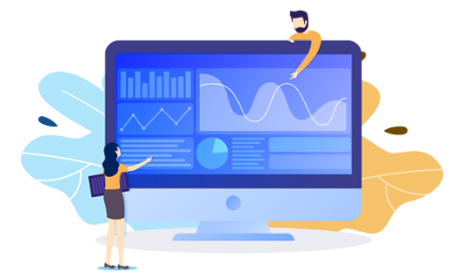
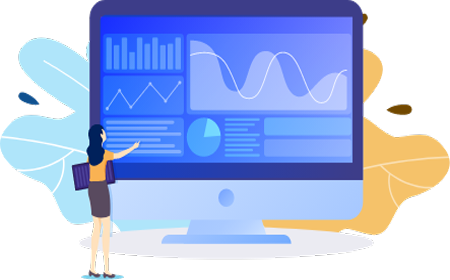
Product pages

diff --git a/public/css/navbar.css b/public/css/navbar.css
@@ -57,6 +57,10 @@
     color: #00AEEF;
 }
 
+.navigation-bar .inner-wrapper .nav-links .navbar-nav .nav-item .nav-link:focus {
+    box-shadow: none;
+}
+
 .navigation-bar .inner-wrapper .nav-links .menu-trigger {
     cursor: pointer;
     display: block;

diff --git a/resources/views/frontend/product_whatsapp_widget.blade.php b/resources/views/frontend/product_whatsapp_widget.blade.php
@@ -1,0 +1,150 @@
+@extends('frontend.layouts.app')
+
+@section('title', app_name() . ' | ' . __('navs.general.home'))
+
+@section('content')
+
+<link rel="stylesheet" href="{{url('css/product.css')}}">
+    
+@include('frontend.includes.home_nav')
+
+<div class="products-body">
+        <div class="container">
+            <div class="inner-container">
+
+                <section class="hero-section">
+                    <div class="container">
+                        <div class="inner-wrapper">
+                            <div class="content-block">
+                                <h2 class="title"><span>WhatsApp</span><br>widget<br> for websites</h2>
+                                <p class="content">Integrate the most popular communication channel into your website and improve your customer service quality and sales conversion.</p>
+                                <ul>
+                                    <li><i class="bi bi-check-circle-fill"></i> Customisable ready to use widget</li>
+                                    <li><i class="bi bi-check-circle-fill"></i> Inquiry Management System - IMS</li>
+                                </ul>
+                                <a href="{{url('login')}}" class="cta-plain-btn">
+                                    <span class="text">Get Started</span>
+                                    <i class="bi bi-arrow-right-short"></i>
+                                </a>
+                            </div>
+                            <div class="image-block">
+                                <img src="{{url('images/products/Group 549.png')}}" alt="">
+                            </div>
+                        </div>
+                    </div>
+                </section>
+
+                <section class="whatsapp-widget">
+                    <div class="container">
+                        <div class="inner-wrapper">
+                            <div class="image-block">
+                                <div class="splide" id="whatsappFeatureSlider">
+                                    <div class="splide__track">
+                                            <ul class="splide__list">
+                                                <li class="splide__slide">
+                                                    <img src="{{url('images/products/Group 550.png')}}" alt="">
+                                                </li>
+                                                <li class="splide__slide">
+                                                    <img src="{{url('images/products/Group 552.png')}}" alt="">
+                                                </li>
+                                            </ul>
+                                    </div>
+                                </div>
+                            </div>
+                            <div class="content-block">
+                                <h2 class="title">WhatsApp Chat Features</h2>
+                                <ul>
+                                    <li><i class="bi bi-check-circle-fill"></i> Customisable chat box
+                                    </li>
+                                    <li><i class="bi bi-check-circle-fill"></i> Choose prefered position on website</li>
+                                    <li><i class="bi bi-check-circle-fill"></i> Choose bubble icon and add text</li>
+                                    <li><i class="bi bi-check-circle-fill"></i> Your own welcome message</li>
+                                </ul>
+                                <a href="" class="cta-outline-btn">
+                                    <span class="text">Get Started</span>
+                                    <i class="bi bi-arrow-right-short"></i>
+                                </a>
+                            </div>
+                        </div>
+                    </div>
+                </section>
+
+                <section class="more-about-widget">
+                    <div class="header">
+                        <h3 class="title">Manage your leads efficiently for better productivity</h3>
+                    </div>
+                    <div class="feature-block-section">
+                        <div class="curves">
+                            <img src="{{url('images/products/Path 6503.svg')}}" alt="" class="top-curve">
+                            <img src="{{url('images/products/Path 6507.svg')}}" alt="" class="bottom-curve">
+                        </div>
+                        <div class="feature-block block-1">
+                            <div class="content-block">
+                                <div class="subtitle-block">
+                                    <img src="{{url('images/products/Polygon 1.png')}}" alt="">
+                                    <span class="text">Convert visitors into customers</span>
+                                </div>
+                                <h2 class="title">Inquiry Management System</h2>
+                                <div class="content">
+                                    <ul>
+                                        <li><i class="bi bi-check-circle-fill"></i> Admin dashboard with user privileges management</li>
+                                        <li><i class="bi bi-check-circle-fill"></i> Assign the inquiry to relevant department</li>
+                                        <li><i class="bi bi-check-circle-fill"></i> Record of the full status of the inquiry with comments</li>
+                                        <li><i class="bi bi-check-circle-fill"></i> Analytics of the inquiry management process with reports</li>
+                                    </ul>
+                                </div>
+                            </div>
+                            <div class="image-block">
+                                <img src="{{url('images/landing_page/products/whatsapp_widget/ims.png')}}" alt="">
+                            </div>
+                        </div>
+                        <div class="feature-block block-2">
+                            <div class="content-block">
+                                <div class="curves">
+                                    <img src="{{url('images/products/Path 6503.svg')}}" alt="" class="top-curve">
+                                    <img src="{{url('images/products/Path 6507.svg')}}" alt="" class="bottom-curve">
+                                </div>
+                                <div class="subtitle-block">
+                                    <img src="{{url('images/products/Polygon 1.png')}}" alt="">
+                                    <span class="text">Never miss a valuable lead</span>
+                                </div>
+                                <h2 class="title">The tool that marketing team Loves</h2>
+                                <p class="content">It makes everybody's life easier with insights of the leads and funnel management</p>
+                            </div>
+                            <div class="image-block">
+                                <img src="{{url('images/products/Group 551.png')}}" alt="">
+                            </div>
+                        </div>
+                        <div class="feature-block block-3">
+                            <!-- <div class="content-block">
+                                <div class="subtitle-block">
+                                    <img src="{{url('images/products/Polygon 1.png')}}" alt="">
+                                    <span class="text">Sub topic have to include here</span>
+                                </div>
+                                <h2 class="title">Team inbox for <br> WhatsApp</h2>
+                                <p class="content">
+                                    Lorem Ipsum is simply dummy text of the printing and typesetting industry. Lorem
+                                    Ipsum has been
+                                    the industry's dummy text ever since the 1500s, when an unknown printer took a
+                                    galley of type
+                                    and scrambled it to make a type specimen book. It has survived not only five
+                                    centuries, but also
+                                    the leap
+                                </p>
+                            </div>
+                            <div class="image-block">
+                                <img src="{{url('images/products/2225.png')}}" alt="">
+                            </div> -->
+                        </div>
+                    </div>
+                </section>
+
+            </div>
+        </div>
+    </div>
+
+    @include('frontend.includes.footer')
+
+    
+@endsection
+

diff --git a/resources/views/frontend/product_all_in_one_chat.blade.php b/resources/views/frontend/product_all_in_one_chat.blade.php
@@ -16,7 +16,7 @@
                     <div class="container">
                         <div class="inner-wrapper">
                             <div class="content-block">
-                                <h2 class="title">WhatsApp<br>widget<br> for websites</h2>
+                                <h2 class="title"><span>All-in-One</span><br>Chat<br> for websites</h2>
                                 <p class="content">Integrate the most popular communication channel into your website and improve your customer service quality and sales conversion.</p>
                                 <ul>
                                     <li><i class="bi bi-check-circle-fill"></i> Customisable ready to use widget</li>
@@ -28,7 +28,7 @@
                                 </a>
                             </div>
                             <div class="image-block">
-                                <img src="{{url('images/products/Group 549.png')}}" alt="">
+                                <img src="{{url('images/landing_page/products/all_in_one_chat/hero_image.png')}}" alt="">
                             </div>
                         </div>
                     </div>
@@ -42,10 +42,10 @@
                                     <div class="splide__track">
                                             <ul class="splide__list">
                                                 <li class="splide__slide">
-                                                    <img src="{{url('images/products/Group 550.png')}}" alt="">
+                                                    <img src="{{url('images/landing_page/products/all_in_one_chat/slide_1.png')}}" alt="">
                                                 </li>
                                                 <li class="splide__slide">
-                                                    <img src="{{url('images/products/Group 552.png')}}" alt="">
+                                                    <img src="{{url('images/landing_page/products/all_in_one_chat/slide_1.png')}}" alt="">
                                                 </li>
                                             </ul>
                                     </div>
@@ -95,7 +95,7 @@
                                 </div>
                             </div>
                             <div class="image-block">
-                                <img src="{{url('images/products/ims_analytics.png')}}" alt="">
+                                <img src="{{url('images/landing_page/products/all_in_one_chat/ims.png')}}" alt="">
                             </div>
                         </div>
                         <div class="feature-block block-2">

diff --git a/resources/views/frontend/includes/home_nav.blade.php b/resources/views/frontend/includes/home_nav.blade.php
@@ -3,7 +3,7 @@
             <div class="inner-wrapper">
                 <div class="brand">
                     <a href="{{url('/')}}">
-                        <img src="{{url('images/logo/Tallentor-Logo-(PNG).png')}}" alt="brand-logo">
+                        <img src="{{url('images/logo/tallentor-logo.png')}}" alt="brand-logo">
                     </a>
                 </div>
                 <div class="nav-links">
@@ -12,7 +12,19 @@
                             <a href="{{url('/')}}" class="nav-link {{ Request::segment(1) == '' ? 'active' : null }}">Home</a>
                         </li>
                         <li class="nav-item">
-                            <a href="{{url('products')}}" class="nav-link {{ Request::segment(1) == 'products' ? 'active' : null }}">Products</a>
+                            <div class="dropdown">
+                                <a class="btn nav-link dropdown-toggle" href="#" role="button" id="productNav" data-bs-toggle="dropdown" aria-expanded="false">
+                                    Products
+                                </a>
+                                <ul class="dropdown-menu getstarted-dropdown-menu" aria-labelledby="productNav">
+                                    <li><a class="dropdown-item" href="{{url('product-whatsapp-widget')}}">
+                                        <div class="icon-block"><i class="bi bi-whatsapp"></i></div> <div class="text">WhatsApp Widget</div>
+                                    </a></li>
+                                    <li><a class="dropdown-item" href="{{url('product-all-in-one-chat')}}">
+                                        <div class="icon-block"><i class="bi bi-grid-fill"></i></div> <div class="text">All-in-One Chat</div>
+                                    </a></li>
+                                </ul>
+                            </div>
                         </li>
                         <li class="nav-item">
                             <a href="{{url('services')}}" class="nav-link {{ Request::segment(1) == 'services' ? 'active' : null }}">Services</a>

diff --git a/routes/frontend/home.php b/routes/frontend/home.php
@@ -47,7 +47,8 @@ Route::get('test_blade',[TestController::class, 'testblade'])->name('testblade')
 
 Route::get('eshop',[EShopController::class, 'index'])->name('eshop');
 Route::get('market_place',[MarketPlaceController::class, 'index'])->name('market_place');
-Route::get('products',[ProductController::class, 'index'])->name('products');
+Route::get('product-whatsapp-widget',[ProductController::class, 'product_whatsapp_widget'])->name('product_whatsapp_widget');
+Route::get('product-all-in-one-chat',[ProductController::class, 'product_all_in_one_chat'])->name('product_all_in_one_chat');
 Route::get('resources',[ResourcesController::class, 'index'])->name('resources');
 Route::get('services',[ServicesController::class, 'index'])->name('services');
 Route::get('portfolio',[PortfolioController::class, 'index'])->name('portfolio');

diff --git a/app/Http/Controllers/Frontend/ProductController.php b/app/Http/Controllers/Frontend/ProductController.php
@@ -7,7 +7,12 @@ use Illuminate\Http\Request;
 
 class ProductController extends Controller
 {
-    public function index() {
-        return view('frontend.products');
+
+    public function product_whatsapp_widget() {
+        return view('frontend.product_whatsapp_widget');
+    }
+    
+    public function product_all_in_one_chat() {
+        return view('frontend.product_all_in_one_chat');
     }
 }
